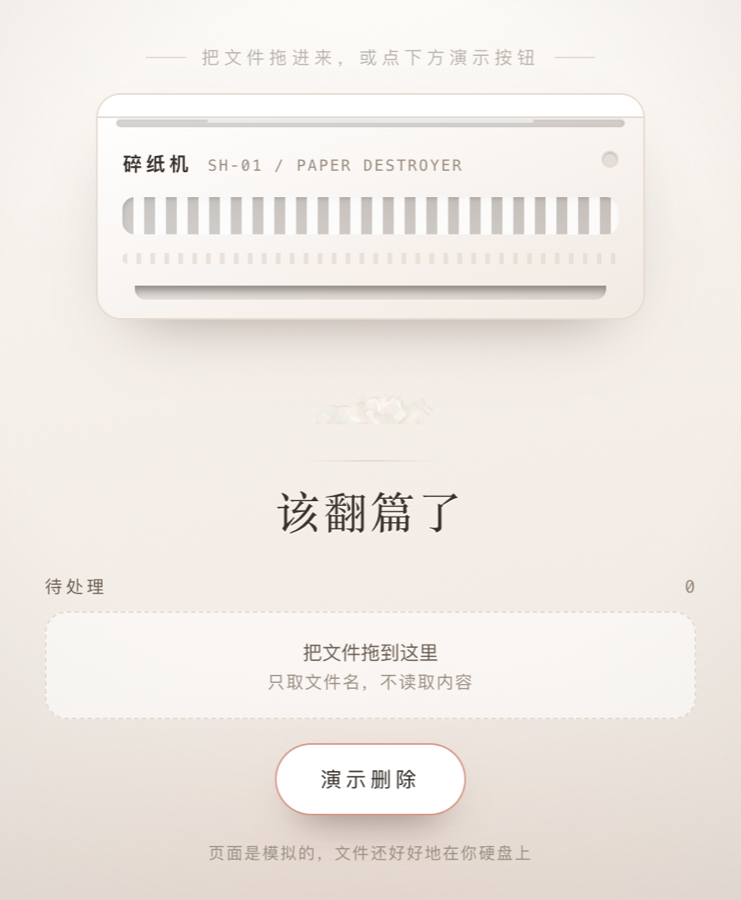
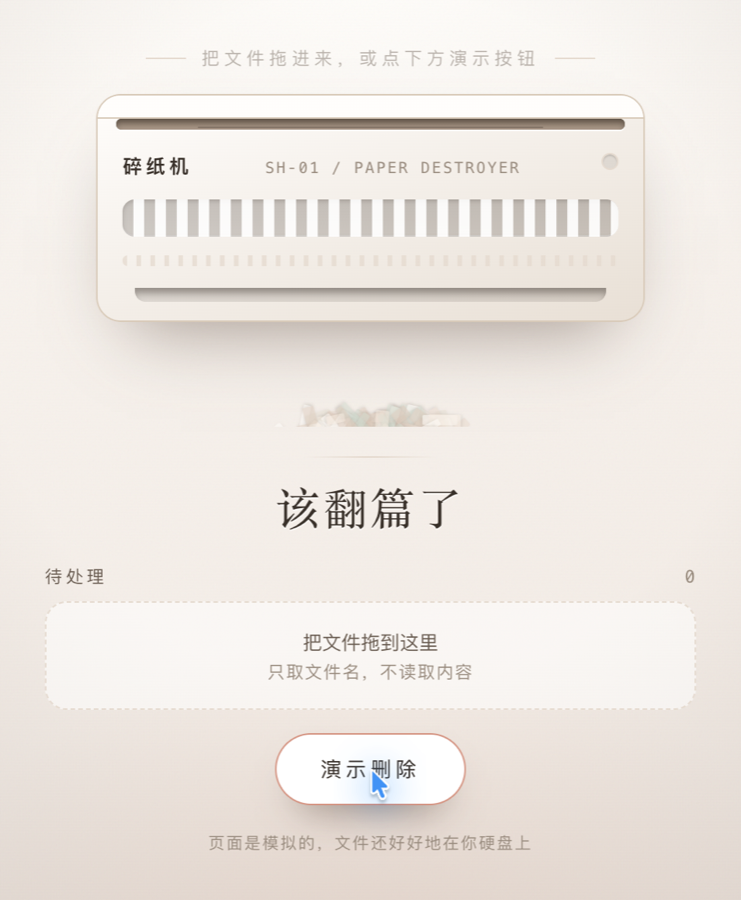
fix: 修示例视觉缺陷（机身对比度/进纸口凹槽/窄屏断行/纸屑战果感）+ 沉淀视觉规则

diff --git a/examples/demo-shredder.html b/examples/demo-shredder.html
@@ -33,7 +33,10 @@
 
   --machine-w:clamp(230px,74vw,380px);
   --field-h:clamp(64px,12vh,112px);
-  --final-h:clamp(66px,11vh,96px);
+  --final-h:clamp(58px,10vh,84px);
+  --face:#fffdfb;
+  --face-2:#eadfd4;
+  --edge:#dccab8;
 }
 
 *{box-sizing:border-box;}
@@ -84,9 +87,9 @@ body{
 .machine-wrap{position:relative;display:flex;flex-direction:column;align-items:center;}
 .machine{position:relative;width:var(--machine-w);
   border-radius:16px;
-  background:linear-gradient(160deg,var(--panel),var(--bg-2));
-  border:1px solid var(--line);
-  box-shadow:0 20px 42px -24px rgba(90,66,54,.55), inset 0 1px 0 rgba(255,255,255,.8);
+  background:linear-gradient(160deg,var(--face),var(--face-2));
+  border:1px solid var(--edge);
+  box-shadow:0 24px 48px -22px rgba(90,66,54,.55), inset 0 1px 0 rgba(255,255,255,.95);
   padding-bottom:12px;
   transform-origin:50% 60%;
 }
@@ -99,15 +102,15 @@ body{
   100%{transform:translateX(0)}
 }
 .machine-lip{height:15px;border-radius:16px 16px 0 0;
-  background:linear-gradient(180deg,#fff,var(--panel));
-  border-bottom:1px solid var(--line);}
+  background:linear-gradient(180deg,#fffdfb,var(--face));
+  border-bottom:1px solid var(--edge);}
 /* 进纸口 */
-.feed-slot{height:6px;margin:0 12px;border-radius:3px;
-  background:linear-gradient(180deg,rgba(58,47,40,.26),rgba(58,47,40,.08));
-  box-shadow:inset 0 1px 0 rgba(255,255,255,.7), inset 0 -2px 3px rgba(58,47,40,.16);
+.feed-slot{height:7px;margin:0 12px;border-radius:3px;
+  background:linear-gradient(180deg,#7d6a5a,#b39c8a);
+  box-shadow:inset 0 2px 4px rgba(58,47,40,.45), 0 1px 0 rgba(255,255,255,.85);
   position:relative;}
-.feed-slot::after{content:"";position:absolute;left:18%;right:18%;top:1px;height:2px;border-radius:2px;
-  background:rgba(255,255,255,.55);}
+.feed-slot::after{content:"";position:absolute;left:16%;right:16%;bottom:1px;height:1px;border-radius:1px;
+  background:rgba(58,47,40,.28);}
 .machine-body{position:relative;padding:15px 16px 14px;}
 .lamp{position:absolute;top:15px;right:16px;width:11px;height:11px;border-radius:50%;
   background:rgba(58,47,40,.10);border:1px solid var(--line);
@@ -117,8 +120,10 @@ body{
   animation:breathe 1.6s ease-in-out infinite;}
 @keyframes breathe{0%,100%{opacity:.82}50%{opacity:1}}
 .machine-title{display:flex;align-items:baseline;gap:10px;padding-right:26px;}
-.machine-title b{font-size:.78rem;font-weight:600;letter-spacing:.2em;color:var(--ink);}
-.machine-title span{font-family:var(--font-mono);font-size:.62rem;letter-spacing:.12em;color:var(--ink-dim);}
+.machine-title b{font-size:.78rem;font-weight:600;letter-spacing:.2em;color:var(--ink);
+  white-space:nowrap;flex:none;}
+.machine-title span{font-family:var(--font-mono);font-size:.62rem;letter-spacing:.12em;color:var(--ink-dim);
+  flex:1;min-width:0;overflow:hidden;text-overflow:ellipsis;white-space:nowrap;}
 /* 滚轮窗 */
 .roller-window{position:relative;height:24px;margin-top:13px;border-radius:8px;overflow:hidden;
   background:linear-gradient(180deg,rgba(58,47,40,.10),rgba(58,47,40,.04));
@@ -142,7 +147,7 @@ body{
   width:var(--w);height:var(--h);border-radius:1px;
   background:var(--c);opacity:0;
   transform:translate3d(var(--sx),var(--sy),0) rotate(var(--sr));
-  box-shadow:0 1px 0 rgba(58,47,40,.10);
+  box-shadow:0 1px 2px rgba(58,47,40,.20);
   animation:
     shredMove var(--dur) cubic-bezier(.4,0,.7,1) var(--delay) forwards,
     shredFade var(--fade) linear var(--delay) forwards;
@@ -208,6 +213,10 @@ body.dragging .dropzone{border-color:var(--accent);background:rgba(255,255,255,.
 .demo:active{transform:translateY(1px);}
 .demo[disabled]{opacity:.5;cursor:not-allowed;transform:none;}
 .foot-note{margin:2px 0 0;font-size:.66rem;letter-spacing:.1em;color:var(--ink-dim);}
+
+@media (max-width:400px){
+  .machine-title span{display:none;}
+}
 
 @media (prefers-reduced-motion:reduce){
   .shred{animation-duration:1ms,1ms;}
@@ -394,7 +403,7 @@ const els = {
 
 els.finalLine.textContent = FINAL_MESSAGE;
 
-const SHRED_COLORS = ['#fffdf9','#f7ece4','#f3e2d9','#efe8dc','#e7eee4'];
+const SHRED_COLORS = ['#fffdf9','#f6e9de','#ead6c9','#ddc6b6','#ccd6c9','#e4dbcd'];
 const DEMO_FILES = ['旧草稿.docx','会议纪要.pdf','截图 2024-11-08.png'];
 
 let queue = [];        /* 待碎的文件卡元素 */
@@ -448,12 +457,12 @@ function spawnShred(){
   const h = f.clientHeight || 80;
   const el = document.createElement('i');
   el.className = 'shred';
-  const w = 3 + Math.random() * 5;
+  const w = 4 + Math.random() * 5;
   const hh = 10 + Math.random() * 22;
   const dur = 900 + Math.random() * 700;
-  el.style.setProperty('--x', (Math.random() * 34 - 17) + 'px');
-  el.style.setProperty('--sx', (Math.random() * 40 - 20) + 'px');
-  el.style.setProperty('--sy', (h - 4 - Math.random() * 16) + 'px');
+  el.style.setProperty('--x', (Math.random() * 68 - 34) + 'px');
+  el.style.setProperty('--sx', (Math.random() * 56 - 28) + 'px');
+  el.style.setProperty('--sy', (h - 2 - Math.random() * 14) + 'px');
   el.style.setProperty('--sr', (Math.random() * 720 - 360) + 'deg');
   el.style.setProperty('--dur', dur + 'ms');
   el.style.setProperty('--delay', (Math.random() * 120) + 'ms');

diff --git a/skills/shredder-theater/references/visual-language.md b/skills/shredder-theater/references/visual-language.md
@@ -146,6 +146,56 @@
 - 指示灯默认暗，进纸时点亮为 `--accent`，碎完缓慢熄灭
 - 碎屑从出纸口**下方**生成，落在机身底部形成一小堆
 
+## 浅色系专属：让机器浮起来
+
+奶油治愈这类浅色主题有个固定坑——`--panel`（白）和 `--bg-2`（浅米）和背景挨得太近，
+机身会"陷进"背景里，看着像一张浮在纸上的卡片而不是一台机器。四个必做动作：
+
+1. **机身另起三件套**：给机器单独定义 `--face`（近白）→ `--face-2`（更深的米色）渐变 +
+   `--edge` 描边色，不要复用 `--panel` / `--bg-2`。
+2. **进纸口要用实色深槽**：`linear-gradient(180deg,#7d6a5a,#b39c8a)` 这种实色 + 内阴影才读得出"凹槽"。
+   用半透明深色叠在浅背景上，只会得到一条灰线。
+3. **投影加重**：机身投影的模糊半径和浓度都要比深色系更大更深（浅底上阴影才看得见）。
+4. **滚轮窗保持最亮**：机器上唯一的高亮区是滚轮窗和顶盖高光，全场唯一亮部留给"纸"。
+
+```css
+:root{
+  --face:#fffdfb;      /* 机身亮面 */
+  --face-2:#eadfd4;    /* 机身暗面 */
+  --edge:#dccab8;      /* 机身描边 */
+}
+.machine{
+  background:linear-gradient(160deg,var(--face),var(--face-2));
+  border:1px solid var(--edge);
+  box-shadow:0 24px 48px -22px rgba(90,66,54,.55), inset 0 1px 0 rgba(255,255,255,.95);
+}
+.feed-slot{
+  background:linear-gradient(180deg,#7d6a5a,#b39c8a);
+  box-shadow:inset 0 2px 4px rgba(58,47,40,.45), 0 1px 0 rgba(255,255,255,.85);
+}
+```
+
+## 窄屏（CJK）不能被挤断行
+
+中文没有词间空格，flex 收缩时会把两个字拆到两行。中文标题在 flex 容器里必须：
+
+```css
+.machine-title b{white-space:nowrap;flex:none;}          /* 主标题不许断 */
+.machine-title span{flex:1;min-width:0;overflow:hidden;   /* 型号串：省略号 */
+  text-overflow:ellipsis;white-space:nowrap;}
+@media (max-width:400px){ .machine-title span{display:none;} }  /* 窄屏直接藏掉型号串 */
+```
+
+## 纸屑堆要有"战果"感
+
+纸屑是这场演出的战利品，太小太淡就白演了：
+
+- 单条宽度 **4–9px**，长度 10–32px
+- 横向铺开 **±30px**（不是齐刷刷一条线）
+- 落点贴近场地底部
+- 颜色要比背景**深一到两档**，否则在浅底上完全看不见
+- 每条加 `0 1px 2px rgba(0,0,0,.18)` 投影，靠投影读出层次
+
 ## 避坑
 
 - 不用 emoji 当主视觉（🗑 一下就把氛围拉回玩具感）
@@ -153,3 +203,6 @@
 - 不用渐变文字 + 发光按钮的通用 SaaS 风格
 - 不做"居中一个标题 + 一个按钮"的空布局，页面至少要有三层信息：机身、托盘、落点文案
 - 深底正文对比度 ≥ 4.5:1；不要用 `--ink-dim` 当正文色
+- 浅色主题别直接拿 `--panel` 当机身底色（会和背景糊成一片），单独开 `--face` / `--edge`
+- 中文标题放进 flex 容器一定要 `white-space:nowrap`，否则窄屏会竖排成两行
+- 纸屑别做得太小太淡，浅底上要靠"更深的颜色 + 投影"才看得见

diff --git a/skills/shredder-theater/SKILL.md b/skills/shredder-theater/SKILL.md
@@ -65,7 +65,8 @@ description: |
    - 点一下真的有声音（不是静音）
    - 纸真的被吸进去、碎纸条真的掉下来
    - 文案在碎完之后才出现
-   - 375px 宽的手机视口下没有横向滚动、文案不溢出
+   - 375px 宽的手机视口下没有横向滚动、文案不溢出、中文标题没有被挤断成两行
+   - 浅色主题下机身和背景能拉开（机器要"立"在背景上，不是浮在背景里）
    - 浏览器 console 无报错、**无未捕获的 Promise 拒绝**（`Uncaught (in promise)` 会让整场演出在中途静默死掉）
    任何一条不过就改完再交付，别把半成品丢给用户。
 
